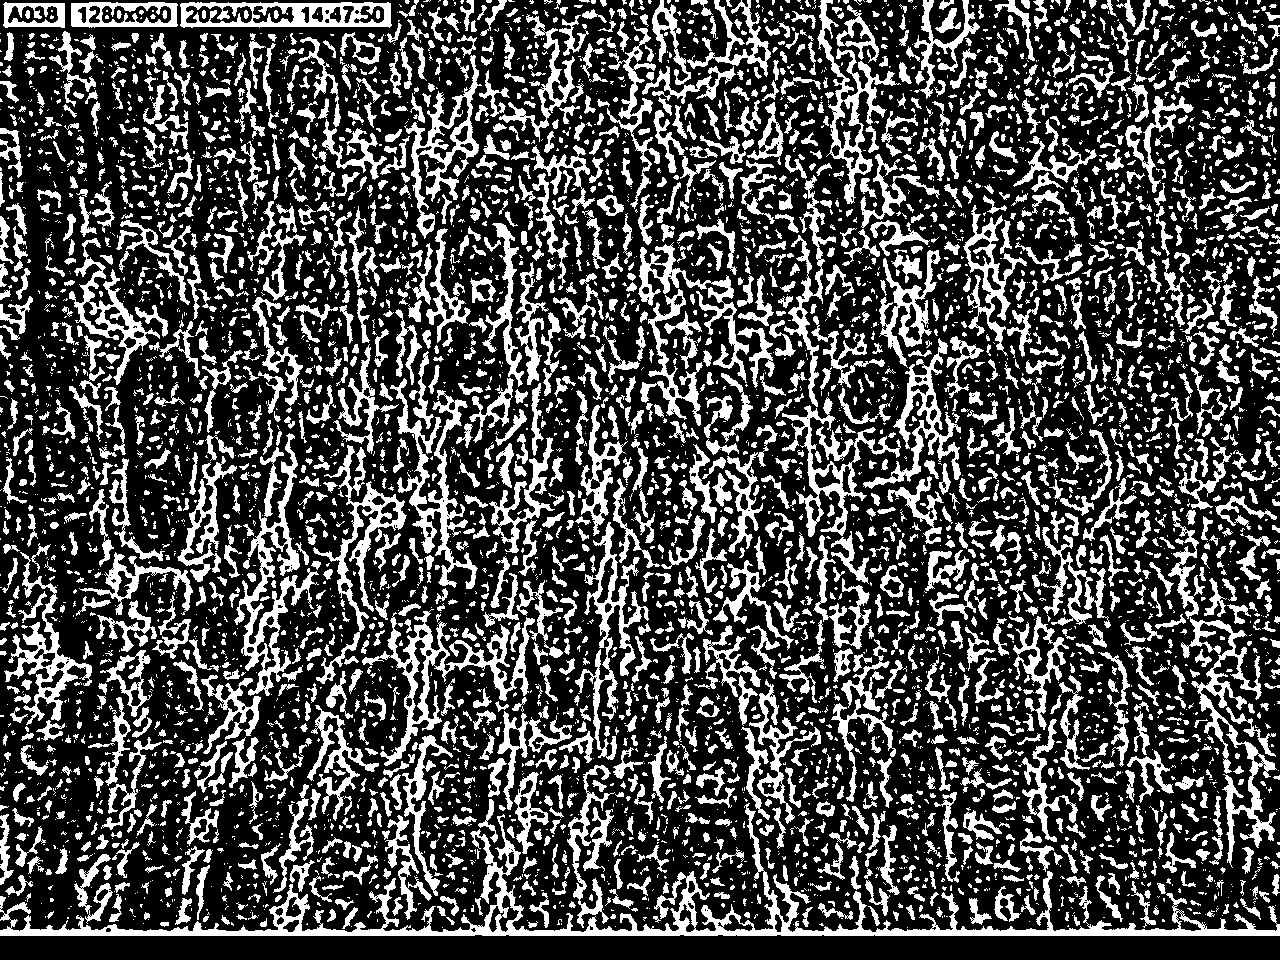
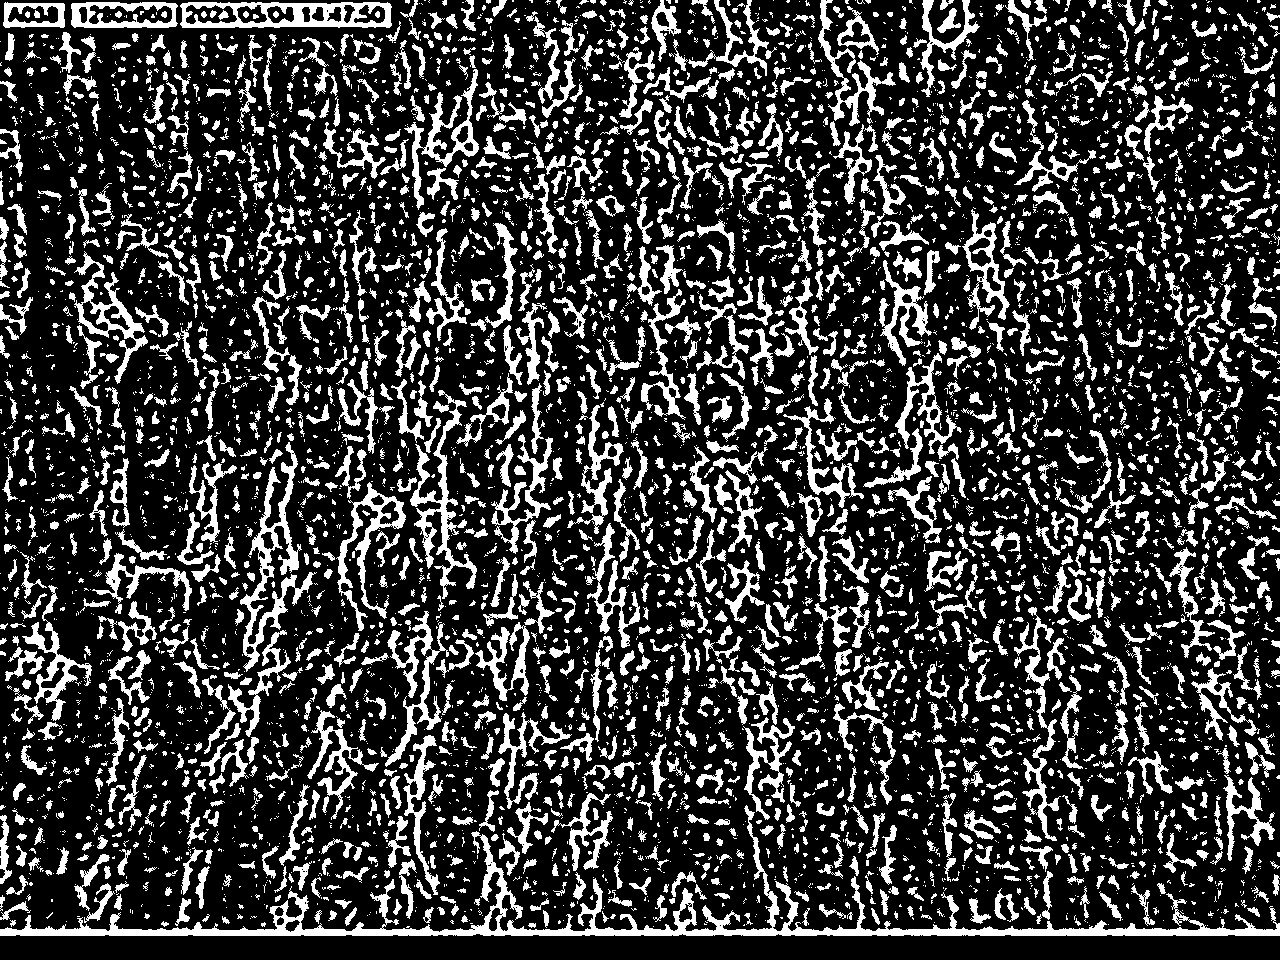
change param for gaussian blurring

diff --git a/rbl/group_task02/main.py b/rbl/group_task02/main.py
@@ -39,7 +39,7 @@ def process(file_path:str):
     # process the image
     im_ori = cv.imread(file_path)
     im_gray = cv.cvtColor(im_ori, cv.COLOR_BGR2GRAY)
-    im_blur = cv.GaussianBlur(im_gray, (7,7), 0)
+    im_blur = cv.GaussianBlur(im_gray, (7,7), 3)
     im_binary = cv.adaptiveThreshold(im_blur, 255, cv.ADAPTIVE_THRESH_MEAN_C, cv.THRESH_BINARY_INV, 11, 2)
 
     # make histogram
